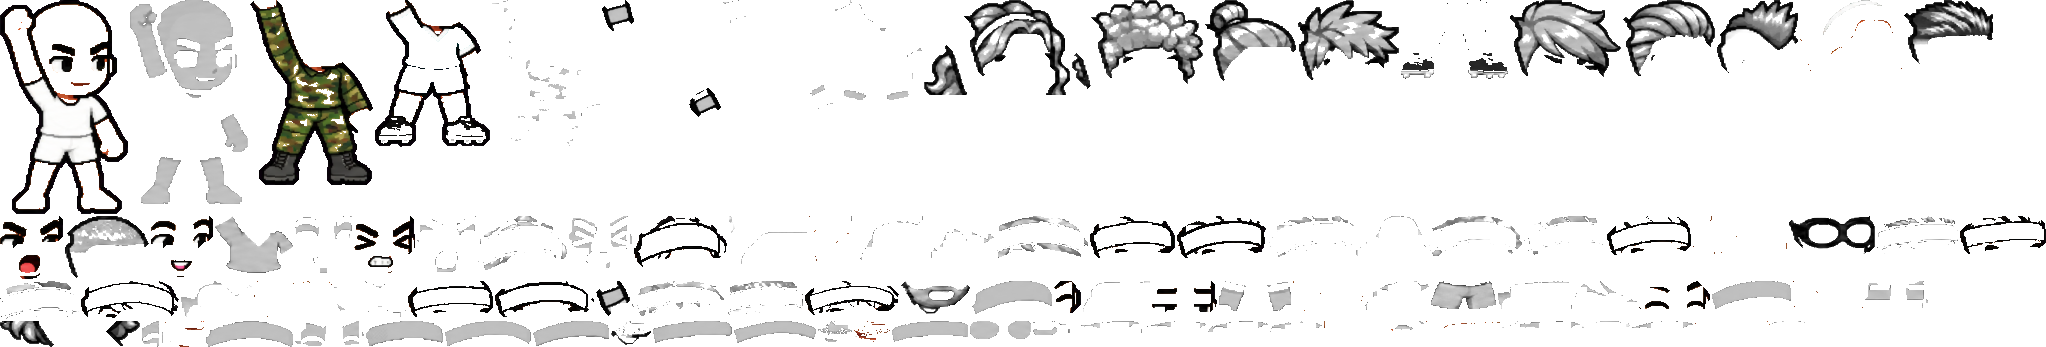
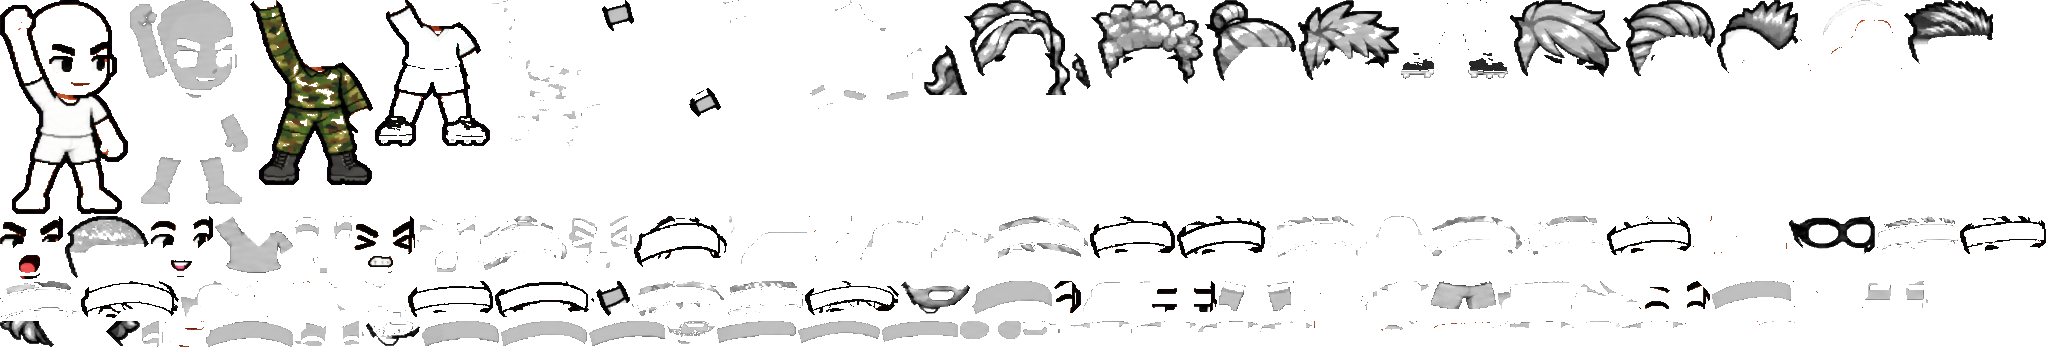
T-11-243: 짧은 수염 B 시트 5자세와 runL 윙크 층 보강
- 옅은 짧은 수염이 변화 기준에 걸려 B 시트(서기 포함)에서 빠지던 것을 수염 층만 기준을 낮추고 피부·털 색만 남겨 채움
- runL 인물만 윙크가 빠진 편집을 그 인물을 3배로 키워 다시 편집해 채움(wink-fix.prompt)

Changed region(s): [[0.154, 0.9222, 0.6466, 1.0], [0.739, 0.9222, 0.8314, 0.951], [0.6774, 0.9222, 0.7082, 0.951]]

diff --git a/tooling/avatar-layers/build.py b/tooling/avatar-layers/build.py
@@ -39,6 +39,8 @@ ATLASES.update({
 ATLASES.update({f'band-{h}': (f'band-{h}', 'band') for h in HAIRS})
 PARENT = {f'band-{h}': f'hair-{h}' for h in HAIRS}
 STAND_ONLY = {'suit', 'bouquet', 'crutch', 'bandage'}
+# light stubble differs from bare skin by less than the usual change threshold
+THRESH = {'beard-stubble': 40}
 
 
 def load(p):
@@ -293,7 +295,11 @@ for s, poses in POSES.items():
                 P = aligned[PARENT[name]]
                 m, Ew, shift = extract(P, E[y0:y1, x0:x1], P[..., 3] > 0, others)
             else:
-                m, Ew, shift = extract(Bf, E[y0:y1, x0:x1], fig, others, 60 if kind == 'kit' else 90)
+                m, Ew, shift = extract(Bf, E[y0:y1, x0:x1], fig, others, THRESH.get(name, 60 if kind == 'kit' else 90))
+            if name in THRESH:
+                # the low threshold also picks up lip and cheek tone shifts: keep only skin and dark hair dots
+                c = classes(Ew[..., :3])
+                m &= c['skin'] | ((c['L'] < 175) & (c['sat'] < 80))
             if name.startswith('hair-'):
                 aligned[name] = Ew
             report.append((name, s, pose, int(m.sum()), round(shift, 1)))

diff --git a/tooling/avatar-layers/README.md b/tooling/avatar-layers/README.md
@@ -34,3 +34,5 @@ node tooling/avatar-layers/mobile-sources.mjs                    # Metro require
   ```
 
 Check every hairstyle, outfit and accessory in all 18 poses before replacing the committed atlases. image_gen sometimes moves a limb or misses a figure. When that happens, delete `gen/<job>.png` and run that job again.
+
+A figure that stays unchanged after a rerun is too small for image_gen. Crop that figure from `gen/base-<sheet>.png`, enlarge it 3× (nearest), edit the crop alone, shrink it back, key it and paste it over the same window of `cut/<job>-<sheet>.png`. The runL figure of `expr-wink-A` was made this way with `wink-fix.prompt` (window x 47–329, y 0–401 of sheet A).
